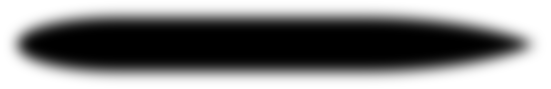
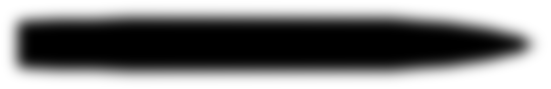
Gearing from the owner's plate: hull traced from the silhouette top view (stern racks smoothed off), twin 5-inch, bridge, funnels and tubes placed from the side views
aux_test, review_test pass.

Claude-Session: https://claude.ai/code/session_0112riLGm4nSjrgsGiYL5DUG

Changed region(s): [[0.0, 0.1348, 0.1543, 0.8764], [0.9256, 0.3596, 0.9564, 0.6292]]

diff --git a/index.html b/index.html
@@ -294,8 +294,8 @@ const DESIGN_LIST = [
     p: { outline: [[57.35, 0.15], [56.27, 0.15], [56.13, 0.25], [55.86, 0.25], [55.39, 0.6], [55.18, 0.6], [54.71, 0.88], [54.44, 0.88], [54.3, 1.33], [54.17, 1.38], [54.1, 1.08], [53.76, 1.15], [53.69, 1.56], [53.15, 1.73], [52.13, 1.72], [51.52, 1.91], [51.46, 2.15], [51.18, 2.21], [51.12, 2.05], [49.83, 2.46], [48.34, 2.73], [42.17, 3.54], [31.4, 4.56], [23.27, 5.13], [15.01, 5.51], [-1.32, 5.87], [-12.91, 6.0], [-23.75, 5.81], [-36.75, 5.24], [-46.71, 4.93], [-51.39, 4.62], [-51.86, 4.39], [-53.83, 4.13], [-54.03, 3.99], [-54.71, 3.85], [-55.59, 3.3], [-55.93, 3.36], [-56.0, 3.23], [-56.47, 3.29], [-56.81, 3.14], [-56.88, 0.15], [-57.35, 0.15]], sup: [[20.5, 9.5, 8, 3], [-27, 17, 7, 1], [-26, 4, 4.5, 2]], fun: [[9, 2.4, 1.8], [-5, 2.4, 1.8]], mast: [[16, 'p']], boats: [[12, 1]] },
     slots: [sl('M', 36.2, 0, FWD, 'g127s'), sl('M', 28.8, 0, FWD, 'g127s'), sl('M', -21, 0, FWD, 'g127s'), sl('M', -31, 0, AFT, 'g127s'), sl('M', -38.2, 0, AFT, 'g127s'), sl('T', 2.6, 0, BEAM, 'tor'), sl('T', -10.5, 0, BEAM, 'tor'), ...pair('A', -16, 5.3, 'aa40'), ...pair('A', 23, 4.2, 'aa20')] },
   { id: 'dd_gearing', cls: 'dd', yard: 'tidewater', dn: 'Partisan', model: 'Gearing-class destroyer', year: 1945, era: 1, L: 119, B: 12.5, t: 2616, kn: 36.8, td: 700, armor: 19, crew: 336, price: 26000,
-    p: { bow: .33, run: .2, stern: 'c', sup: [[25.5, 11.9, 8.5, 3], [-30, 8, 5, 1]], fun: [[11, 2.6, 1.9], [-4, 2.6, 1.9]], mast: [[19, 't']], boats: [[3, 1]] },
-    slots: [sl('M', 43, 0, FWD, 'g127'), sl('M', 35, 0, FWD, 'g127'), sl('M', -45, 0, AFT, 'g127'), sl('T', 4, 0, BEAM, 'tor'), sl('T', -14, 0, BEAM, 'tor'), ...pair('A', 18, 5.2, 'aa40'), ...pair('A', -24, 5, 'aa40')] },
+    p: { outline: [[59.5, 0.24], [57.31, 1.21], [56.38, 2.18], [55.0, 2.16], [51.88, 3.03], [48.42, 3.78], [39.76, 5.07], [32.15, 5.59], [30.07, 5.86], [28.68, 5.86], [27.41, 6.12], [-34.68, 6.25], [-35.49, 6.12], [-37.57, 6.12], [-38.38, 5.98], [-40.22, 5.98], [-41.03, 5.85], [-50, 5.86], [-55, 5.62], [-58.5, 5.38], [-59.5, 5.08]], sup: [[21, 8, 8.5, 3], [-27, 18, 6, 1]], fun: [[11.5, 2.6, 1.9], [-8, 2.6, 1.9]], mast: [[14.5, 't']], boats: [[-12, 1]] },
+    slots: [sl('M', 43.2, 0, FWD, 'g127'), sl('M', 34, 0, FWD, 'g127'), sl('M', -44.5, 0, AFT, 'g127'), sl('T', 2, 0, BEAM, 'tor'), sl('T', -18, 0, BEAM, 'tor'), ...pair('A', 19, 5.3, 'aa40'), ...pair('A', -31, 4.8, 'aa40')] },
   { id: 'dd_narvik', cls: 'dd', yard: 'ostsee', dn: 'Sturmvogel', model: 'Type 1936A (Narvik) destroyer', year: 1940, era: 1, L: 127, B: 12, t: 2600, kn: 36, td: 760, armor: 15, crew: 330, price: 24000,
     p: { outline: [[63.5, 0.62], [62.28, 1.05], [58.64, 2.01], [56.82, 2.6], [53.17, 3.35], [51.75, 3.73], [47.5, 4.33], [46.08, 4.65], [42.23, 5.12], [40.81, 5.11], [39.4, 5.3], [38.38, 5.29], [34.94, 5.61], [30.28, 5.64], [28.86, 5.82], [22.79, 5.79], [21.37, 5.87], [-3.75, 6.0], [-5.17, 5.81], [-12, 6.0], [-40, 6.0], [-52, 5.4], [-58, 4.4], [-61.5, 3.0], [-63.5, 1.2]], sup: [[24, 11, 9, 3]], house: [[-45, 9, 6]], fun: [[12.3, 2.6, 2], [-9.4, 2.6, 2]], mast: [[18, 'p']], boats: [[5, 1]] },
     slots: [sl('M', 37.6, 0, FWD, 'g150t'), sl('M', -35.7, 0, FWD, 'g150s'), sl('M', -46, 0, AFT, 'g150s'), sl('M', -56.5, 0, AFT, 'g150s'), sl('T', 1.2, 0, BEAM, 'tor'), sl('T', -24, 0, BEAM, 'tor'), ...pair('A', -16, 4.4, 'aa37'), ...pair('A', 31, 4.6, 'aa20q')] },

diff --git a/src/game.html b/src/game.html
@@ -291,8 +291,8 @@ const DESIGN_LIST = [
     p: { outline: [[57.35, 0.15], [56.27, 0.15], [56.13, 0.25], [55.86, 0.25], [55.39, 0.6], [55.18, 0.6], [54.71, 0.88], [54.44, 0.88], [54.3, 1.33], [54.17, 1.38], [54.1, 1.08], [53.76, 1.15], [53.69, 1.56], [53.15, 1.73], [52.13, 1.72], [51.52, 1.91], [51.46, 2.15], [51.18, 2.21], [51.12, 2.05], [49.83, 2.46], [48.34, 2.73], [42.17, 3.54], [31.4, 4.56], [23.27, 5.13], [15.01, 5.51], [-1.32, 5.87], [-12.91, 6.0], [-23.75, 5.81], [-36.75, 5.24], [-46.71, 4.93], [-51.39, 4.62], [-51.86, 4.39], [-53.83, 4.13], [-54.03, 3.99], [-54.71, 3.85], [-55.59, 3.3], [-55.93, 3.36], [-56.0, 3.23], [-56.47, 3.29], [-56.81, 3.14], [-56.88, 0.15], [-57.35, 0.15]], sup: [[20.5, 9.5, 8, 3], [-27, 17, 7, 1], [-26, 4, 4.5, 2]], fun: [[9, 2.4, 1.8], [-5, 2.4, 1.8]], mast: [[16, 'p']], boats: [[12, 1]] },
     slots: [sl('M', 36.2, 0, FWD, 'g127s'), sl('M', 28.8, 0, FWD, 'g127s'), sl('M', -21, 0, FWD, 'g127s'), sl('M', -31, 0, AFT, 'g127s'), sl('M', -38.2, 0, AFT, 'g127s'), sl('T', 2.6, 0, BEAM, 'tor'), sl('T', -10.5, 0, BEAM, 'tor'), ...pair('A', -16, 5.3, 'aa40'), ...pair('A', 23, 4.2, 'aa20')] },
   { id: 'dd_gearing', cls: 'dd', yard: 'tidewater', dn: 'Partisan', model: 'Gearing-class destroyer', year: 1945, era: 1, L: 119, B: 12.5, t: 2616, kn: 36.8, td: 700, armor: 19, crew: 336, price: 26000,
-    p: { bow: .33, run: .2, stern: 'c', sup: [[25.5, 11.9, 8.5, 3], [-30, 8, 5, 1]], fun: [[11, 2.6, 1.9], [-4, 2.6, 1.9]], mast: [[19, 't']], boats: [[3, 1]] },
-    slots: [sl('M', 43, 0, FWD, 'g127'), sl('M', 35, 0, FWD, 'g127'), sl('M', -45, 0, AFT, 'g127'), sl('T', 4, 0, BEAM, 'tor'), sl('T', -14, 0, BEAM, 'tor'), ...pair('A', 18, 5.2, 'aa40'), ...pair('A', -24, 5, 'aa40')] },
+    p: { outline: [[59.5, 0.24], [57.31, 1.21], [56.38, 2.18], [55.0, 2.16], [51.88, 3.03], [48.42, 3.78], [39.76, 5.07], [32.15, 5.59], [30.07, 5.86], [28.68, 5.86], [27.41, 6.12], [-34.68, 6.25], [-35.49, 6.12], [-37.57, 6.12], [-38.38, 5.98], [-40.22, 5.98], [-41.03, 5.85], [-50, 5.86], [-55, 5.62], [-58.5, 5.38], [-59.5, 5.08]], sup: [[21, 8, 8.5, 3], [-27, 18, 6, 1]], fun: [[11.5, 2.6, 1.9], [-8, 2.6, 1.9]], mast: [[14.5, 't']], boats: [[-12, 1]] },
+    slots: [sl('M', 43.2, 0, FWD, 'g127'), sl('M', 34, 0, FWD, 'g127'), sl('M', -44.5, 0, AFT, 'g127'), sl('T', 2, 0, BEAM, 'tor'), sl('T', -18, 0, BEAM, 'tor'), ...pair('A', 19, 5.3, 'aa40'), ...pair('A', -31, 4.8, 'aa40')] },
   { id: 'dd_narvik', cls: 'dd', yard: 'ostsee', dn: 'Sturmvogel', model: 'Type 1936A (Narvik) destroyer', year: 1940, era: 1, L: 127, B: 12, t: 2600, kn: 36, td: 760, armor: 15, crew: 330, price: 24000,
     p: { outline: [[63.5, 0.62], [62.28, 1.05], [58.64, 2.01], [56.82, 2.6], [53.17, 3.35], [51.75, 3.73], [47.5, 4.33], [46.08, 4.65], [42.23, 5.12], [40.81, 5.11], [39.4, 5.3], [38.38, 5.29], [34.94, 5.61], [30.28, 5.64], [28.86, 5.82], [22.79, 5.79], [21.37, 5.87], [-3.75, 6.0], [-5.17, 5.81], [-12, 6.0], [-40, 6.0], [-52, 5.4], [-58, 4.4], [-61.5, 3.0], [-63.5, 1.2]], sup: [[24, 11, 9, 3]], house: [[-45, 9, 6]], fun: [[12.3, 2.6, 2], [-9.4, 2.6, 2]], mast: [[18, 'p']], boats: [[5, 1]] },
     slots: [sl('M', 37.6, 0, FWD, 'g150t'), sl('M', -35.7, 0, FWD, 'g150s'), sl('M', -46, 0, AFT, 'g150s'), sl('M', -56.5, 0, AFT, 'g150s'), sl('T', 1.2, 0, BEAM, 'tor'), sl('T', -24, 0, BEAM, 'tor'), ...pair('A', -16, 4.4, 'aa37'), ...pair('A', 31, 4.6, 'aa20q')] },

diff --git a/docs/AGENT_NOTES.md b/docs/AGENT_NOTES.md
@@ -100,5 +100,5 @@
 - **Yamato, 1945** (the owner's choice: the Ten-Go fit, grouped mounts, the Type 96; laid out after Alexpl's plan he sent, 14 Nov 2026): turrets at 50, 28 and -62 m, 155 mm triples at 11 and -48 m, twelve 5-inch twins round the superstructure (the six added in 1944 appended last, saved fits being by index), twenty Type 96 triples (five a side along the deck edge abreast the superstructure, the rest in the tubs fore and aft). The 5-inch barrels sweep over the deck-edge 25 mm on some bearings, as on the ship (the 5-inch stood a deck higher).
 - **Bake warning**: `MOUNTS=` without `ONLY=` (or with an empty ONLY) runs a full bake and rewrites `sprites.json`'s mount list with only the named mounts: every other gun loses its picture. Always pass `ONLY=` with `MOUNTS=`. review_test now checks that every weapon a design carries has its mount picture (launch cells excepted).
 - **Guns drawn as they looked** (the owner, 14 Nov 2026; free refits kept): a weapon's `look` picks its own drawing in `drawMount` (`src/game.html`). `round` is a round enclosed shield (`drawRoundShield`): the Type 89 12.7 cm twin HA (`g127j`, 12 rounds a minute a barrel, rel 5), carried by the Yamato, Takao, Shokaku and Ryujo in place of the American 5-inch twin. A new look for another historical mount goes the same way: a weapon entry with its real rate, `TONS`, the drawing, then `ONLY=<designs> MOUNTS=<wid>` to bake (never MOUNTS without ONLY).
-- **Destroyers from the owner's plans** (14 Nov 2026): the Fletcher (plan of DD-445), Kagero, Fubuki (ONI, Dec 1942) and Narvik (ONI 204, Aug 1942): traced hulls (the Narvik's forward half traced, her full beam carried aft: the plate's light after deck read narrow), guns, torpedo mounts, funnels, bridges and masts placed as drawn. Their speed, displacement, guns and tubes already matched the real ships. The first plan he sent as a Gearing is a Benson/Gleaves (four single 5-inch, one quintuple tube): the Gearing still waits for her plan.
+- **Destroyers from the owner's plans** (14 Nov 2026): the Fletcher (plan of DD-445), Kagero, Fubuki (ONI, Dec 1942) and Narvik (ONI 204, Aug 1942): traced hulls (the Narvik's forward half traced, her full beam carried aft: the plate's light after deck read narrow), guns, torpedo mounts, funnels, bridges and masts placed as drawn. Their speed, displacement, guns and tubes already matched the real ships. The first plan he sent as a Gearing is a Benson/Gleaves (four single 5-inch, one quintuple tube): the Gearing was then laid out from a rough plate (a silhouette top view traced for the hull, the side views for the layout: twin 5-inch at 43, 34 and -44.5 m, bridge 17 to 25 m, funnels at 11.5 and -8 m, tubes at 2 and -18 m; the depth-charge racks smoothed off her stern).
 - **Mount shadows** (`battle.gd` `MountLayer`): the cast shadow is moved no further from its foot than half the mount's own size, so a small gun's shadow stays joined to it (the owner, 14 Nov 2026: destroyers' guns looked to float). The Fletcher's mount 3 faces forward, back to back with mount 4 across the 40 mm director platform; the Narvik's forward after gun likewise; the Fubuki's funnels are her big trunked ones with the foremast ahead of the forward one.
